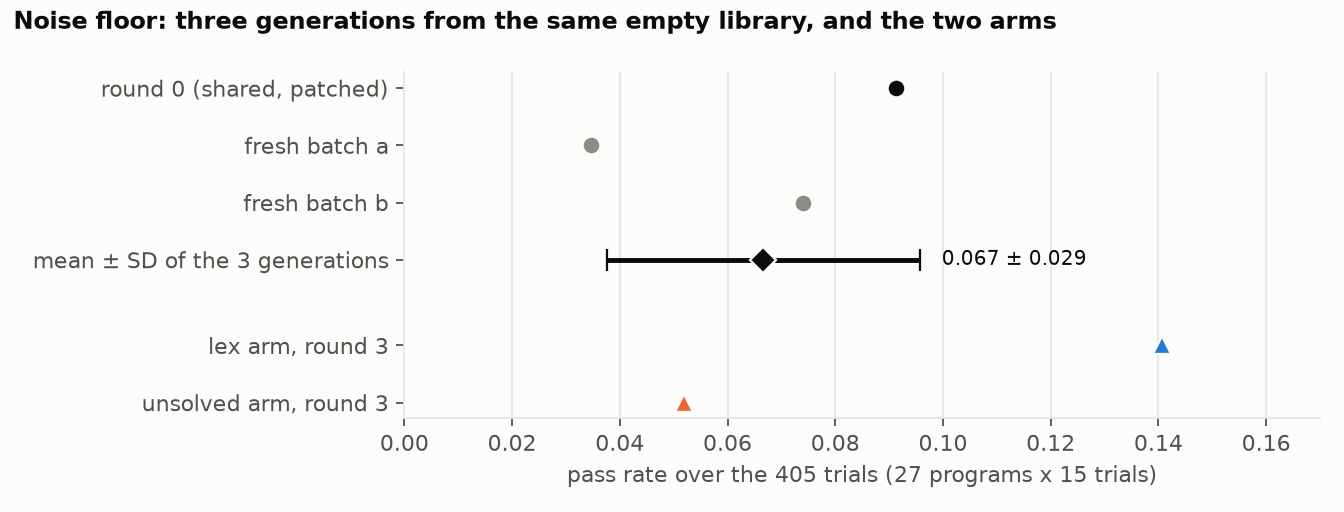
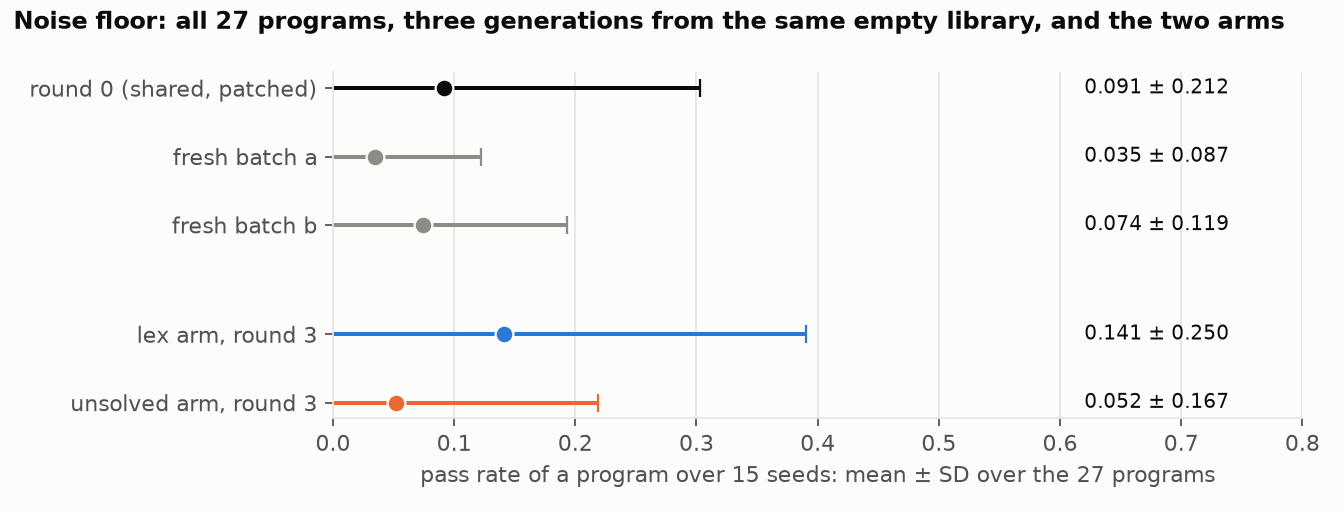
report: noise plot is mean and SD over the 27 programs per generation and arm
Claude-Session: https://claude.ai/code/session_018XSVDFb4ZafD7dmuG4KLJQ

diff --git a/aspire/sim/scripts/taskselect/report_library_selection/make_figures.py b/aspire/sim/scripts/taskselect/report_library_selection/make_figures.py
@@ -206,34 +206,28 @@ def fig_heatmap(numbers: dict) -> None:
 
 # ---- figure 3: noise floor ---------------------------------------------------------------------------------------
 def fig_noise(numbers: dict, noise: dict) -> None:
-    """Pass rate over all 405 trials: three generations of round 0 from the same empty library, their mean and SD, and the two arms."""
-    gens = [("round 0 (shared, patched)", load_probe("library_unsolved_r1", 0)), ("fresh batch a", noise["a"]),
-            ("fresh batch b", noise["b"])]
-    arms = [(f"{a_} arm, round 3", load_probe(d, 3), c) for a_, (d, c, _) in ARMS.items()]
+    """Mean and SD over the 27 programs' pass rates: three generations from the same empty library, and the two arms."""
+    rows = [("round 0 (shared, patched)", load_probe("library_unsolved_r1", 0), INK), ("fresh batch a", noise["a"], GREY),
+            ("fresh batch b", noise["b"], GREY)]
+    rows += [(f"{a_} arm, round 3", load_probe(d, 3), c) for a_, (d, c, _) in ARMS.items()]
     fig, ax = plt.subplots(figsize=(8.4, 3.2))
-    ticks, labels, out = [], [], {}
-    vals = [metric(outcome_array(run), "all") for _, run in gens]
-    for y, ((name, _), v) in enumerate(zip(gens, vals)):
-        ax.plot(v, y, "o", color=INK if "round 0" in name else GREY, markersize=8, markeredgecolor=SURFACE)
-        ticks.append(y); labels.append(name); out[name] = round(v, 3)
-    m, sd = st.fmean(vals), st.stdev(vals)
-    y = len(gens)
-    ax.errorbar(m, y, xerr=sd, fmt="D", color=INK, markersize=8, capsize=5, elinewidth=2.2, markeredgecolor=SURFACE)
-    ax.text(m + sd + 0.004, y, f"{m:.3f} ± {sd:.3f}", va="center", fontsize=9, color=INK)
-    ticks.append(y); labels.append("mean ± SD of the 3 generations")
-    out["mean"], out["sd"] = round(m, 3), round(sd, 3)
-    for k, (name, run, color) in enumerate(arms):
-        v = metric(outcome_array(run), "all")
-        ax.plot(v, y + 1.5 + k, "^", color=color, markersize=8, markeredgecolor=SURFACE)
-        ticks.append(y + 1.5 + k); labels.append(name); out[name] = round(v, 3)
+    out = {}
+    for y, (name, run, color) in enumerate(rows):
+        r = outcome_array(run).mean(axis=2).ravel()          # 27 programs, pass rate of each over 15 seeds
+        m, sd = float(r.mean()), float(r.std(ddof=1))
+        y += 0.6 * (y >= 3)
+        ax.errorbar(m, y, xerr=sd, fmt="o", color=color, markersize=8, capsize=4, elinewidth=1.8, markeredgecolor=SURFACE)
+        ax.text(0.62, y, f"{m:.3f} ± {sd:.3f}", va="center", fontsize=9, color=INK)
+        out[name] = {"mean": round(m, 3), "sd": round(sd, 3), "n_programs": int(r.size)}
     numbers["noise_all"] = out
-    ax.set_yticks(ticks, labels)
+    ys = [i + 0.6 * (i >= 3) for i in range(len(rows))]
+    ax.set_yticks(ys, [n for n, _, _ in rows])
     ax.invert_yaxis()
-    ax.set_xlim(0, 0.17)
+    ax.set_xlim(0, 0.8)
     ax.grid(axis="x", color=GRID, linewidth=0.8)
     ax.set_axisbelow(True)
-    ax.set_xlabel("pass rate over the 405 trials (27 programs x 15 trials)")
-    fig.suptitle("Noise floor: three generations from the same empty library, and the two arms",
+    ax.set_xlabel("pass rate of a program over 15 seeds: mean ± SD over the 27 programs")
+    fig.suptitle("Noise floor: all 27 programs, three generations from the same empty library, and the two arms",
                  x=0.01, ha="left", fontsize=11, fontweight="bold")
     fig.tight_layout()
     fig.savefig(FIGS / "fig3_noise_floor.png", dpi=160)

diff --git a/aspire/sim/scripts/taskselect/report_library_selection/REPORT.md b/aspire/sim/scripts/taskselect/report_library_selection/REPORT.md
@@ -56,20 +56,20 @@ goes 14, 18, **0**, 6; cream cheese in `unsolved` goes 0, 8, **36**, 1. Neither 
 ![noise](figs/fig3_noise_floor.png)
 
 Three independent generations of programs from the same empty library, same pool, same seeds. Each generation is 27
-programs (9 tasks x 3) with 15 trials each, 405 trials. The plot shows the pass rate over those trials, the mean and sample
-SD of the three generations, and the final value of each arm.
+programs (9 tasks x 3) with 15 trials each, 405 trials. The plot shows, for each generation and for the final round of
+each arm, the mean and SD over the 27 programs of each program's pass rate (passes of 15).
 
-| generation | pass rate over 405 trials | passes of 405 | uncaught exceptions |
+| generation | mean ± SD over the 27 programs | passes of 405 | uncaught exceptions |
 |---|---|---|---|
-| round 0 (shared, 9 programs patched by hand) | 0.091 | 37 | 51 |
-| fresh batch a | 0.035 | 14 | 63 |
-| fresh batch b | 0.074 | 30 | 0 |
-| mean ± SD of the 3 generations | 0.067 ± 0.029 | | |
-| `lex`, round 3 | 0.141 | | |
-| `unsolved`, round 3 | 0.052 | | |
+| round 0 (shared, 9 programs patched by hand) | 0.091 ± 0.212 | 37 | 51 |
+| fresh batch a | 0.035 ± 0.087 | 14 | 63 |
+| fresh batch b | 0.074 ± 0.119 | 30 | 0 |
+| `lex`, round 3 | 0.141 ± 0.250 | | |
+| `unsolved`, round 3 | 0.052 ± 0.167 | | |
 
-- The SD across generations is 0.029 (pooled per-task estimate 0.030). This is the noise on one run.
-- Both arms' final values lie within about 2.6 SD of the mean (`lex` +2.5 SD, `unsolved` -0.5 SD).
+- The SD is large against the mean: most programs pass 0 of 15 and a few pass most seeds.
+- The mean of the three generations is 0.067 (SD between generations 0.029; the pooled per-task estimate is 0.030). That
+  is the noise on one run's mean.
 - The clean pair is a against b (same process, no patch): 0.035 against 0.074 (14 against 30 passes of 405).
 - The round-0 generation is the highest, and it is the only one that was patched. So part of its gap to a and b is the patch.
 - Execution noise adds to this: re-running identical programs on the same seeds changed 11 of 15 per-seed outcomes for one
